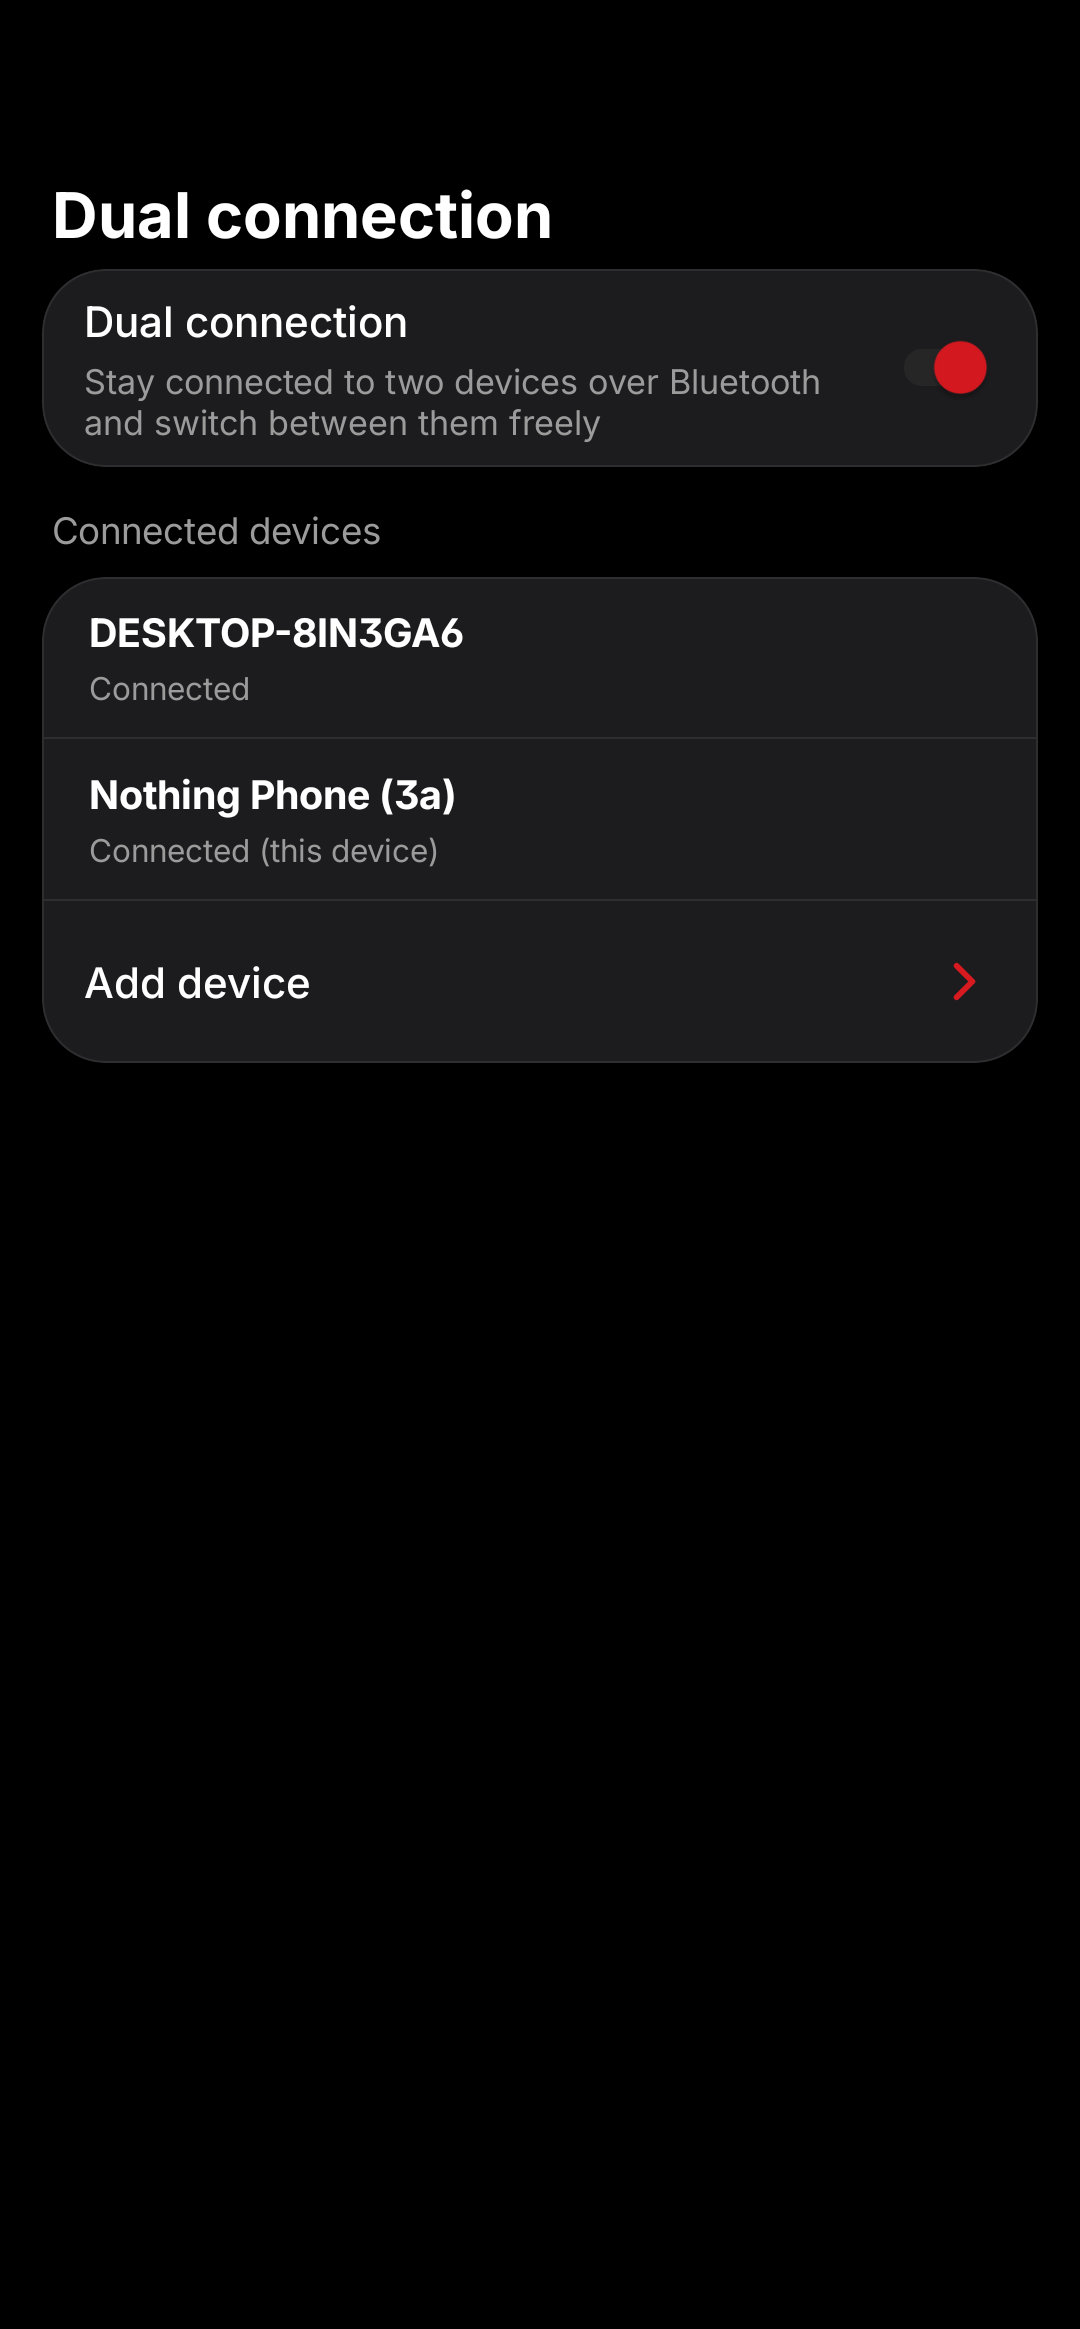
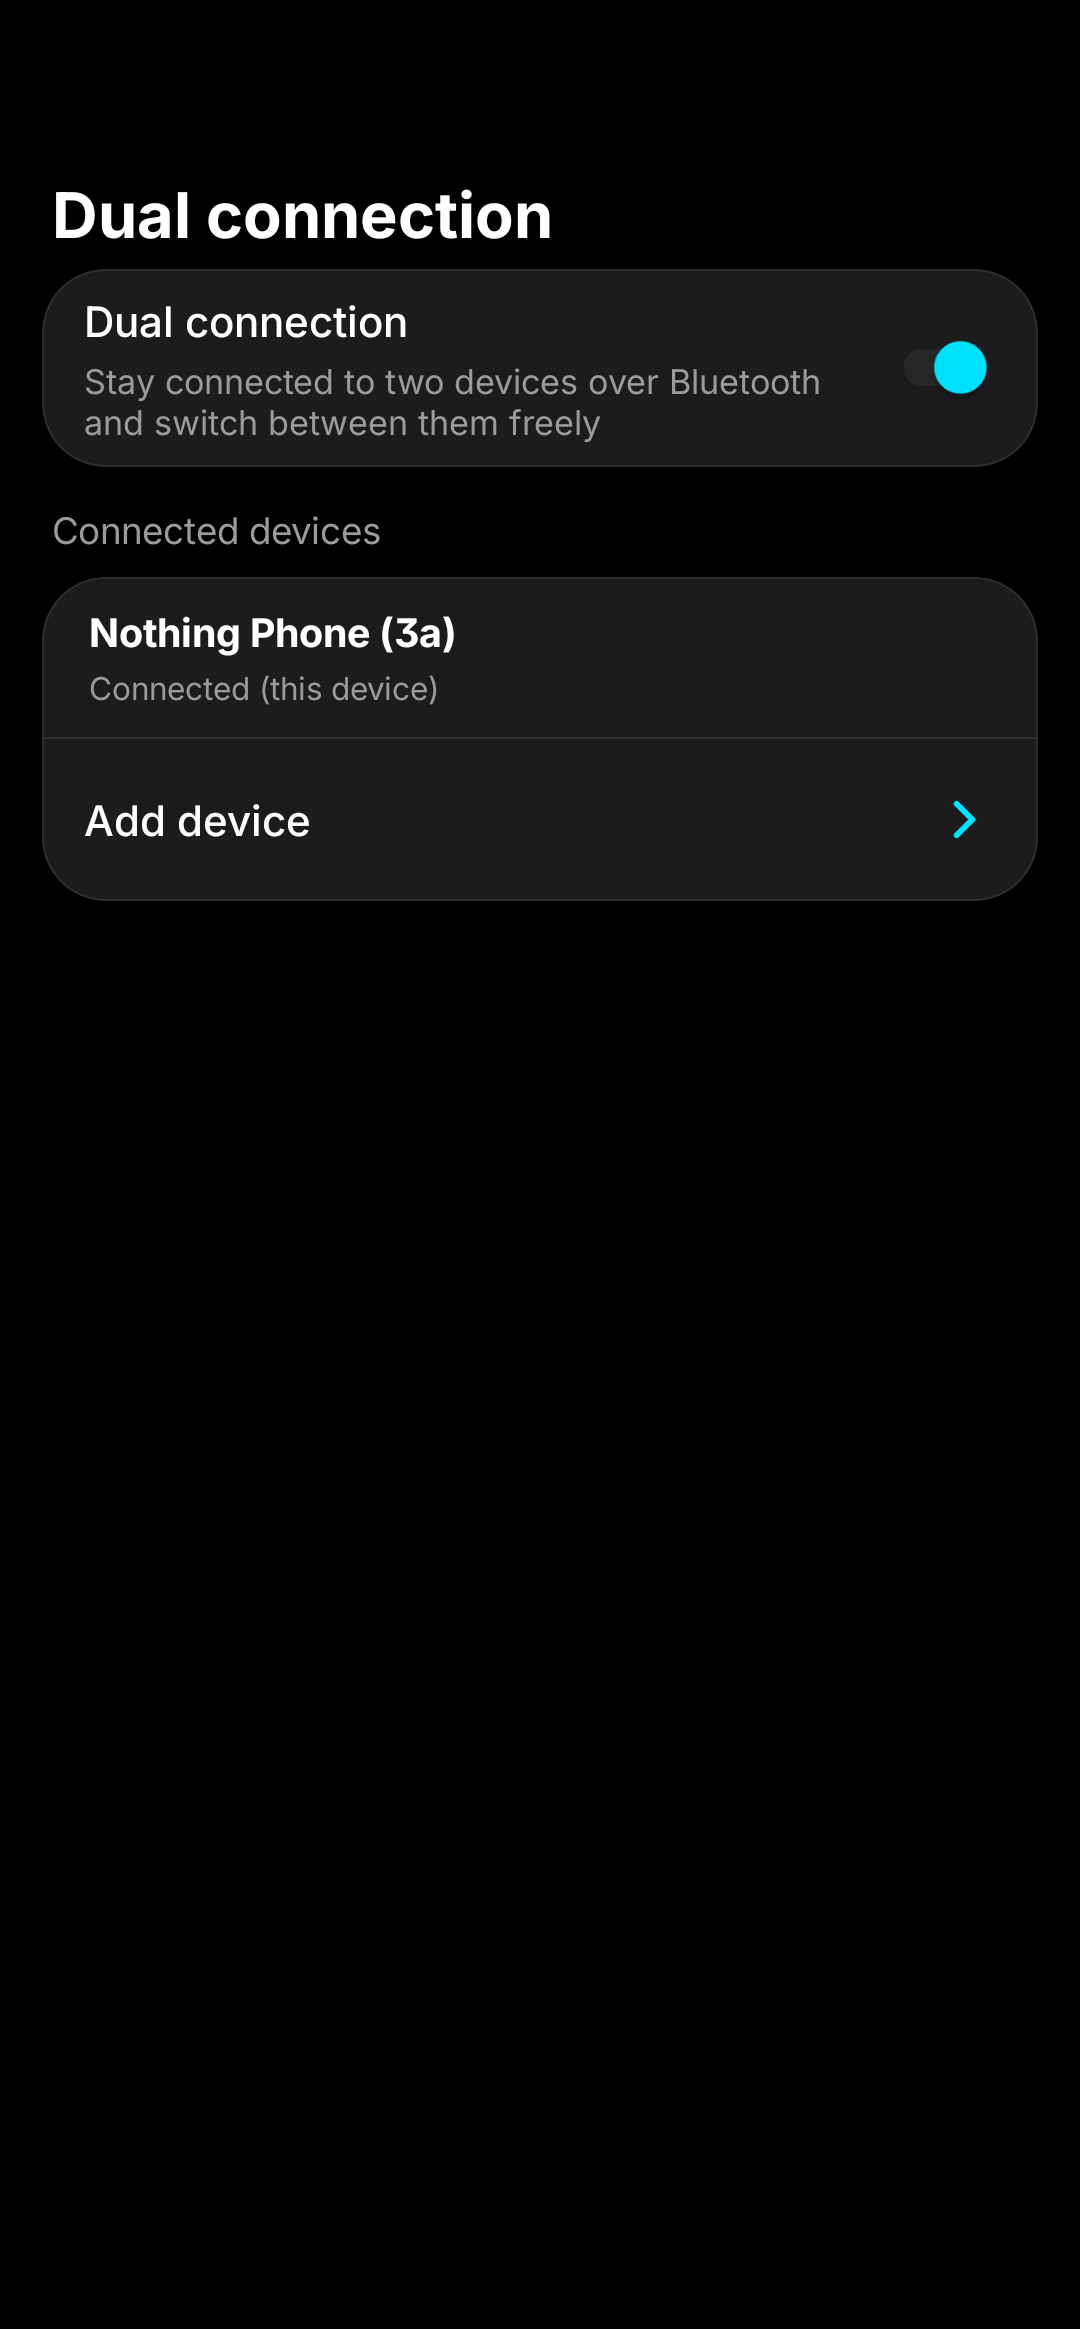
README: model detection, widget pages, retaken screenshots
Screenshots retaken with the script (now also the model list; widget files
named by size). Features list updated for model detection, the widget
pages, the 3x2 / 3x3 sizes and the languages.

Changed region(s): [[0.0306, 0.3401, 0.9778, 0.4637], [0.0917, 0.2473, 0.4278, 0.3091], [0.8556, 0.1237, 0.9167, 0.1855]]

diff --git a/README.md b/README.md
@@ -13,13 +13,17 @@ home-screen widget.
 
 <!-- Retaken with scripts/readme-screenshots.sh; see CLAUDE.md. -->
 
-| Main screen | Equalizer | Curve editor | Earbud settings |
+| Main screen | Model | Equalizer | Curve editor |
 | :---: | :---: | :---: | :---: |
-| <img src="docs/screenshots/main.png" width="200"> | <img src="docs/screenshots/eq.png" width="200"> | <img src="docs/screenshots/eq-edit.png" width="200"> | <img src="docs/screenshots/earbuds.png" width="200"> |
+| <img src="docs/screenshots/main.png" width="200"> | <img src="docs/screenshots/models.png" width="200"> | <img src="docs/screenshots/eq.png" width="200"> | <img src="docs/screenshots/eq-edit.png" width="200"> |
 
-| Earbud gestures | Wear detection | Find my earbuds | Dual connection |
+| Earbud settings | Earbud gestures | Wear detection | Find my earbuds |
 | :---: | :---: | :---: | :---: |
-| <img src="docs/screenshots/gestures.png" width="200"> | <img src="docs/screenshots/wear.png" width="200"> | <img src="docs/screenshots/find.png" width="200"> | <img src="docs/screenshots/dual.png" width="200"> |
+| <img src="docs/screenshots/earbuds.png" width="200"> | <img src="docs/screenshots/gestures.png" width="200"> | <img src="docs/screenshots/wear.png" width="200"> | <img src="docs/screenshots/find.png" width="200"> |
+
+| Dual connection | | | |
+| :---: | :---: | :---: | :---: |
+| <img src="docs/screenshots/dual.png" width="200"> | | | |
 
 | Settings | Theme & colors | Edit preset | Home layout |
 | :---: | :---: | :---: | :---: |
@@ -31,16 +35,21 @@ home-screen widget.
 
 ### Widgets
 
-| Battery 2x2 | Controls 2x2 |
+Every size has a battery page and a controls page; switch with the swap button or a double tap.
+
+| 2x2, battery page | 2x2, controls page |
 | :---: | :---: |
 | <img src="docs/screenshots/widget-battery.png" width="200"> | <img src="docs/screenshots/widget-controls.png" width="200"> |
 
-| Combined 3x2 | Combined 3x3 |
+| 3x2 | 3x3 |
 | :---: | :---: |
-| <img src="docs/screenshots/widget-combined.png" width="300"> | <img src="docs/screenshots/widget-large.png" width="300"> |
+| <img src="docs/screenshots/widget-3x2.png" width="300"> | <img src="docs/screenshots/widget-3x3.png" width="300"> |
 
 ## Features
 
+- **Knows your earbuds:** reads the model from the earbuds and matches it against HeyMelody's own
+  list of OnePlus, OPPO and realme models, then shows only what that model supports. You can also
+  pick the model yourself.
 - **Battery and wear status** for each bud and the case, live.
 - **Noise control:** Off, Noise cancelling (Low / Medium / High), Adaptive and Transparency. Changes
   made on the earbuds show up instantly.
@@ -49,10 +58,11 @@ home-screen widget.
 - **High-quality audio (LHDC), 3D audio and Low latency mode.**
 - **Gestures** per bud: taps, slide and hold, plus the on-call gestures.
 - **Wear detection**, **Dual connection**, **Find my earbuds** and the earbuds' prompt volume.
-- **Home-screen widgets** in three sizes (2×2, 4×2, 4×1) with battery, noise control and Low latency,
-  in your theme's colours.
+- **Home-screen widgets** in three sizes (2×2, 3×2, 3×3). Each has a battery page and a noise
+  control + Low latency page, in your theme's colours.
 - **Themes:** OLED Black, Classic Dark and White, your own accent colour, and up to 3 custom colour
   presets. Reorder or hide the home screen rows.
+- **27 languages**, switchable inside the app.
 - **Update check** from inside the app, straight from GitHub releases.
 
 ## Install
@@ -65,8 +75,8 @@ home-screen widget.
 
 > **Coming from v1.1.0?** Uninstall it first: v2.0.0 and later are signed with a new key.
 
-**Tested on:** OnePlus Buds 4 with a Nothing Phone (3a), Android 15. Other OnePlus / OPPO / realme
-earbuds use the same protocol and will likely work, but are untested.
+**Tested on:** OnePlus Buds 4 with a Nothing Phone (3a), Android 16. Other OnePlus / OPPO / realme
+earbuds use the same protocol and are detected, but are untested: reports on GitHub are welcome.
 
 ## For developers
 

diff --git a/CLAUDE.md b/CLAUDE.md
@@ -496,7 +496,7 @@ a shared one hung.
 - Runtime `*.log` files written by the app are ignored — they are regenerated every run. Handed-over
   captures (`*.log.txt`) are evidence and **are** tracked.
 - **README screenshots** live in `docs/screenshots/` and are retaken with
-  `scripts/readme-screenshots.sh [adb-serial]` (buds connected, phone in English, Pillow installed). It
+  `scripts/readme-screenshots.sh [adb-serial]` (buds connected, phone in English, Pillow installed; on Termux `pkg install python-pillow`). It
   opens every screen by visible text (never toggles anything), so renaming a row or screen label breaks it. It stops mobile-mcp's
   device server first, because that holds UiAutomation and `uiautomator dump` then dies with exit 137.
   Widgets: each placed size on the LAST home screen page is cropped to `widget-<size>.png`.

diff --git a/docs/ROADMAP.md b/docs/ROADMAP.md
@@ -91,8 +91,8 @@ widgets, 3.0.0) is finished; 3.1.0 is released.
 
 - Done 2026-09-26: README is short and user-facing, CREDITS.md folded into its Credits section,
   outdated Appearance notes in ROADMAP-DONE replaced.
-- **Retake the README screenshots** once the UI and the widget are final. The current ones are
-  placeholders. Rerun `scripts/readme-screenshots.sh`.
+- Done 2026-09-27: README screenshots retaken (model list and the redesigned widgets included).
+  Rerun `scripts/readme-screenshots.sh` after any visible UI change.
 
 ## Parked
 
